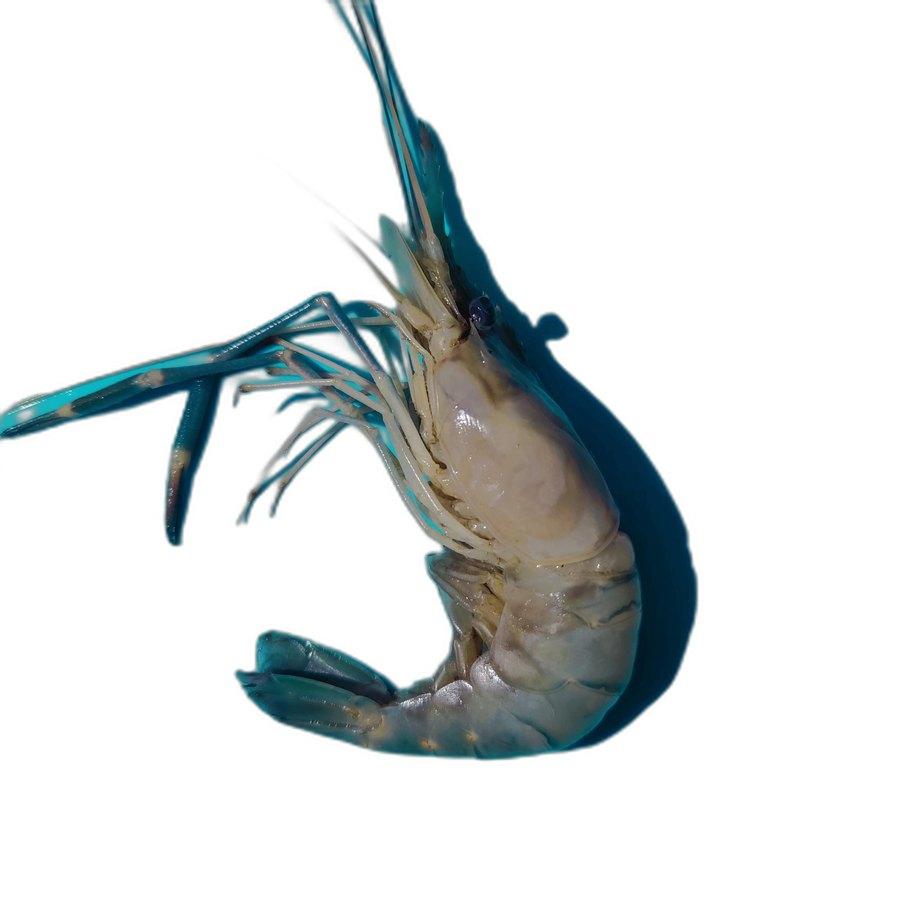
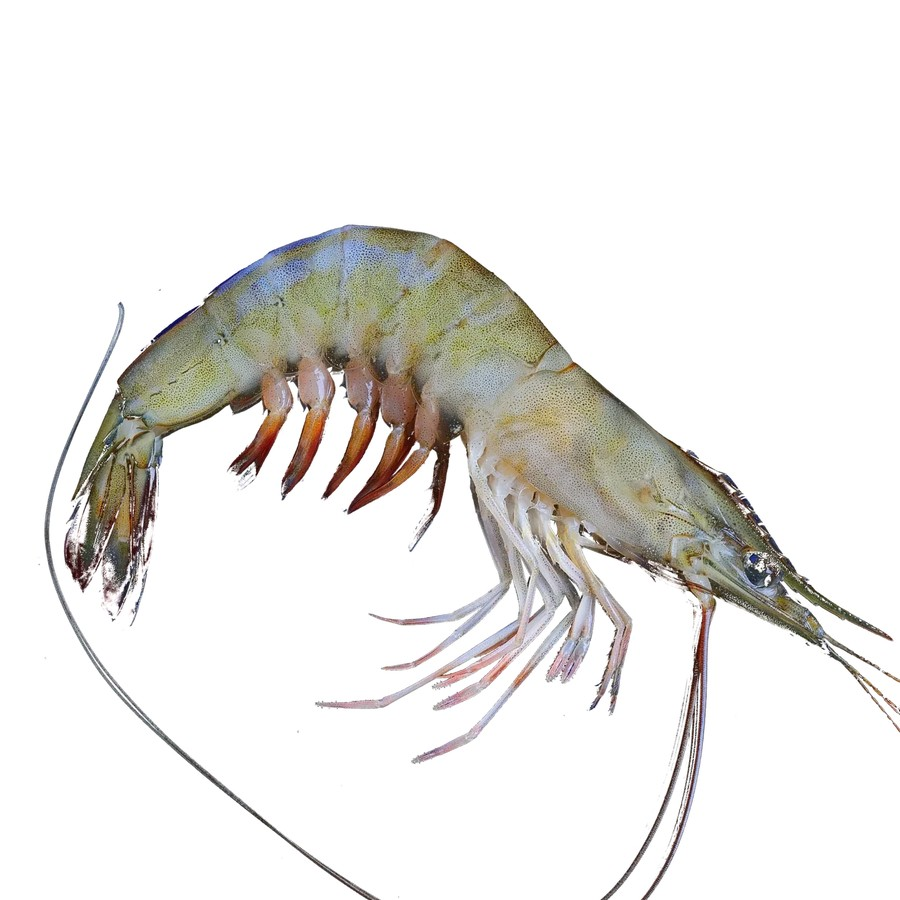
Turn the shrimp specimen to face south-east and refresh shrimp samples
Mirror and rotate the shrimp plate photo so it faces south-east like the
tilapia, and re-centre it on the plate. Replace the black gill sample with
a clearer whole-shrimp photo and use the plate shrimp, cropped, as the
healthy sample. Both samples were checked to classify correctly. Photo
credits note the modification.

diff --git a/app.py b/app.py
@@ -178,8 +178,8 @@ SPECIES = {
         arch="EfficientNet-B0", accuracy="85%",
         # Specimen placement on the plate (desktop, then phone), as CSS lengths.
         stage=dict(image=f"{STATIC}/stage/shrimp.webp", mask=f"{STATIC}/stage/shrimp.webp", blend="normal",
-                   x="44%", y="12%", w="53%", xm="6%", ym="34%", wm="92%", shadow="-2%",
-                   caption="Specimen — Indian white shrimp · photo Chan T. Y. & Lin C. W. (MNHN), CC BY 4.0"),
+                   x="43%", y="21%", w="53%", xm="8%", ym="40%", wm="92%", shadow="-2%",
+                   caption="Specimen — Indian white shrimp · photo Chan T. Y. & Lin C. W. (MNHN), CC BY 4.0, mirrored and rotated"),
         samples=[("shrimp_healthy", "Healthy"), ("shrimp_bg", "Black gill"),
                  ("shrimp_wssv", "White spot"), ("shrimp_wssv_bg", "WSSV + black gill")],
     ),
@@ -217,7 +217,7 @@ def build_config():
         'stats': [{'value': '12', 'label': 'Conditions'}, {'value': '2', 'label': 'Species'},
                   {'value': '4k+', 'label': 'Training photos'}, {'value': '<1 s', 'label': 'Per check'}],
         'gradcam': f"{STATIC}/gradcam.webp",
-        'credits': [{'what': 'Shrimp photo', 'who': 'Chan T. Y. & Lin C. W. (MNHN)', 'license': 'CC BY 4.0',
+        'credits': [{'what': 'Shrimp photo', 'who': 'Chan T. Y. & Lin C. W. (MNHN)', 'license': 'CC BY 4.0, mirrored and rotated',
                      'url': 'https://commons.wikimedia.org/wiki/File:Fenneropenaeus_indicus_(MNHN-IU-2011-5728).jpeg'},
                     {'what': 'Tilapia photo', 'who': 'Germano Roberto Schüür', 'license': 'CC BY-SA 4.0',
                      'url': 'https://commons.wikimedia.org/wiki/File:Til%C3%A1pia_ou_Sarotherodon_niloticus.jpg'}],

diff --git a/README.md b/README.md
@@ -89,7 +89,7 @@ The UI shares AquaManage's palette, type and severity bands, so it can move into
 - `static/`: images served by Streamlit's static file serving (`.streamlit/config.toml` turns it on). It holds the specimen photos on the plates, the sample photos and the Grad-CAM image.
 - Photos are resized in the browser to 1600 px before upload, so checks stay fast on mobile data.
 
-Shrimp photo on the shrimp plate: [Chan T. Y. & Lin C. W. (MNHN)](https://commons.wikimedia.org/wiki/File:Fenneropenaeus_indicus_(MNHN-IU-2011-5728).jpeg), CC BY 4.0. Tilapia photo on the fish plate: [Germano Roberto Schüür](https://commons.wikimedia.org/wiki/File:Til%C3%A1pia_ou_Sarotherodon_niloticus.jpg), CC BY-SA 4.0. The sample photos come from the training datasets.
+Shrimp photo on the shrimp plate: [Chan T. Y. & Lin C. W. (MNHN)](https://commons.wikimedia.org/wiki/File:Fenneropenaeus_indicus_(MNHN-IU-2011-5728).jpeg), CC BY 4.0, mirrored and rotated. Tilapia photo on the fish plate: [Germano Roberto Schüür](https://commons.wikimedia.org/wiki/File:Til%C3%A1pia_ou_Sarotherodon_niloticus.jpg), CC BY-SA 4.0. The healthy shrimp sample is the same shrimp photo, cropped; the other sample photos come from the training datasets.
 
 ---
 
